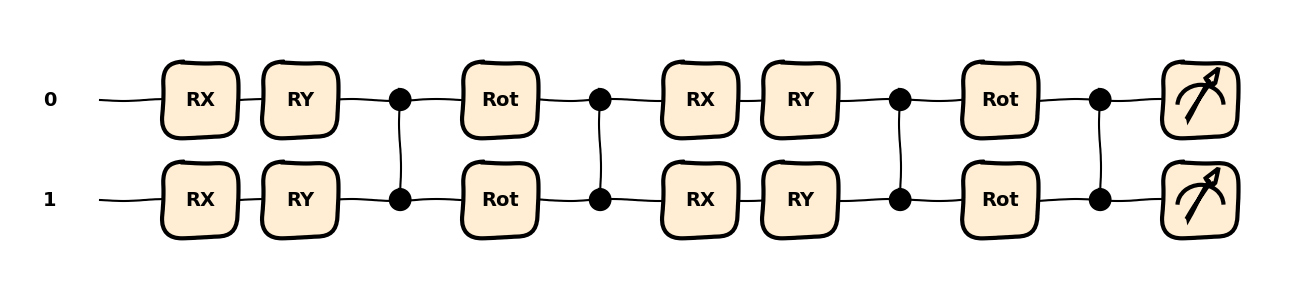
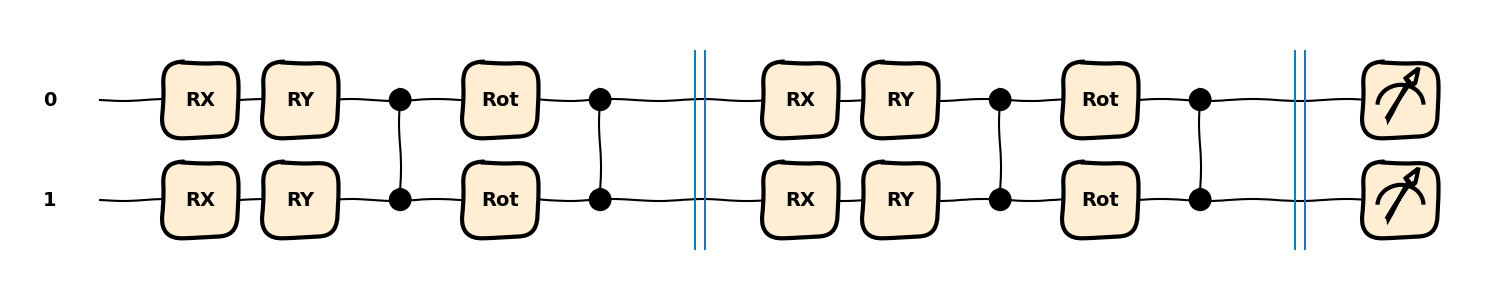
updates

Changed region(s): [[0.0308, 0.18, 0.9846, 0.81]]

diff --git a/tiny-handwritten-digits/contrastive_learning/with_pennylane_torch_v2/four_by_four_patch_encode.py b/tiny-handwritten-digits/contrastive_learning/with_pennylane_torch_v2/four_by_four_patch_encode.py
@@ -62,7 +62,7 @@ class FourPixelReUpload(Operation):
             op_list.append(qml.Rot(encode_params[...,6 * i], encode_params[...,6 * i + 1], encode_params[...,6 * i + 2], wires=wires[0]))
             op_list.append(qml.Rot(encode_params[...,6 * i + 3], encode_params[...,6 * i + 4], encode_params[...,6 * i + 5], wires=wires[1]))
             op_list.append(qml.CZ(wires=[wires[0], wires[1]]))
-            #qml.Barrier()
+            qml.Barrier()
         return op_list
 
 class FourByFourPatchReUpload(Operation):
@@ -164,8 +164,9 @@ if __name__ == '__main__':
 
     @qml.qnode(dev4q, interface='torch')
     def patch_encode(inputs, four_pix_params, sixteen_reupload_params):
-        FourByFourPatchReUpload(inputs, four_pix_params, sixteen_reupload_params, L1, L2, [0,1,2,3])
-        ResetZeroState([0,1,2,3])
+        #FourByFourPatchReUpload(inputs, four_pix_params, sixteen_reupload_params, L1, L2, [0,1,2,3])
+        FourByFourPatchReUpload.compute_decomposition(inputs, four_pix_params, sixteen_reupload_params, [0,1,2,3], L1, L2)
+        #ResetZeroState([0,1,2,3])
         return qml.probs()
 
     pixels = torch.randn(3,4)
@@ -176,14 +177,14 @@ if __name__ == '__main__':
     patch_rot_crot_params = torch.randn(L2, 21)
 
 
-    #print(four_pixel_encode(pixels[0], four_pixel_encode_params, L1))
-    #fig, ax = qml.draw_mpl(four_pixel_encode, style='sketch')(pixels[0], four_pixel_encode_params, L1, True)
-    #fig.savefig('four_pixel_reupload.png')
-    #plt.close(fig)
+    print(four_pixel_encode(pixels[0], four_pixel_encode_params, L1))
+    fig, ax = qml.draw_mpl(four_pixel_encode, style='sketch')(pixels[0], four_pixel_encode_params, L1, True)
+    fig.savefig('four_pixel_reupload.png')
+    plt.close(fig)
 
-    #print(patch_encode(pixels_16[0], patch_encode_params, patch_rot_crot_params))
-    #fig, ax = qml.draw_mpl(patch_encode, style='sketch')(pixels_16[0], patch_encode_params, patch_rot_crot_params)
-    #fig.savefig('four_by_four_patch_reupload.png')
+    print(patch_encode(pixels_16[0], patch_encode_params, patch_rot_crot_params))
+    fig, ax = qml.draw_mpl(patch_encode, style='sketch')(pixels_16[0], patch_encode_params, patch_rot_crot_params)
+    fig.savefig('four_by_four_patch_reupload.png')
 
     # let's try to convert the qnode into a pytorch layer
     weight_shapes = {
